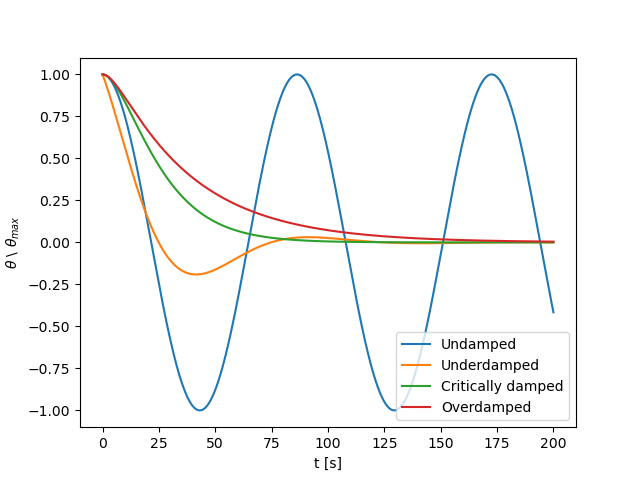
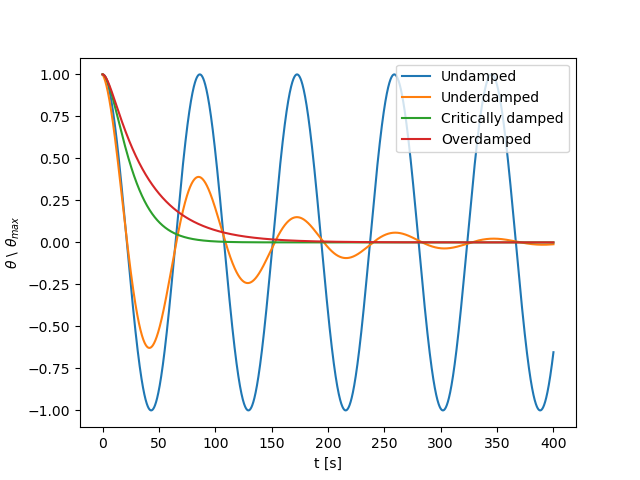
auto

diff --git a/chapters/2 - theoretical background.tex b/chapters/2 - theoretical background.tex
@@ -76,7 +76,7 @@ When $\xi < 1$ the oscillator is underdamped; amplitude of the oscillations decr
 \begin{equation}
 \theta(t) = \theta_{max} e^{-\frac{t}{\tau}}cos(\sqrt{1-\xi^2}\omega_0 t ) =  \theta_{max} e^{-\frac{t}{\tau}}cos(\omega t )    \label{eqn:underdamped_motion_equation}
 \end{equation}
-When the the oscillator is extremely underdamped ($\xi << 1$) the damping time is very large and frequency change negligible, resulting with an approximately undamped oscillator.
+When the the oscillator is highly underdamped ($\xi << 1$) the damping time is very large and frequency change negligible, resulting with an approximately undamped oscillator.
 \par\noindent
 When $\xi = 1$ the oscillator is critically damped; due to high friction, the system cannot oscillate and it decays exponentially to the equilibrium position. As shown in eq.~\ref{eqn:system damping ratio}, choosing $b$ to be at the critical damping value would give the fastest return to the equilibrium position:
 \begin{equation}

diff --git a/python/damp.py b/python/damp.py
@@ -1,8 +1,8 @@
 
 import numpy as np 
 import matplotlib.pyplot as plt
-
-t=np.linspace(0,200,3000);
+time = 400 #s
+t=np.linspace(0,time,3000);
 
 kappa = 2.5839284154826904e-06
 I = 0.000487121
@@ -22,13 +22,15 @@ plt.plot(t,xt)
 
 
 # underdamped
-xi = 0.1
+xi = 0.15
 tao = 1/(xi*omega_0)
 
 a=x0;
 omega = omega_0*np.sqrt(1-xi**2)
 xt=a*(np.exp(-t/tao))*np.cos(omega*t);
 plt.plot(t,xt)
+
+
 
 # critical
 xi = 1.0
